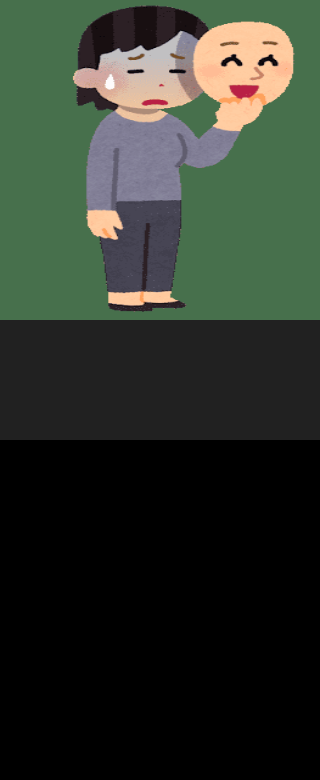
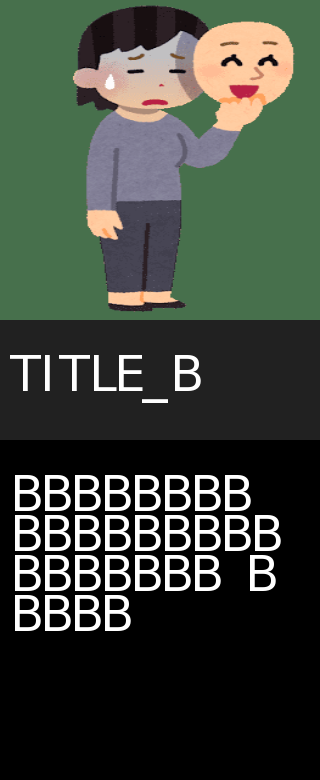
fix: 文字output

Changed region(s): [[0.0312, 0.5846, 0.875, 0.8308], [0.1875, 0.4308, 0.625, 0.5231], [0.0312, 0.4308, 0.1562, 0.5231]]

diff --git a/src/utils/operate_img.py b/src/utils/operate_img.py
@@ -1,9 +1,12 @@
+import copy
 import os.path
 import random
 import cv2
 import numpy as np
-from typing import Tuple, Union
+from typing import Tuple, Union, NamedTuple, List
 from pathlib import Path
+from dataclasses import dataclass
+from PIL import Image, ImageDraw, ImageFont
 
 
 def get_blank_image(height: int, width: int, rgb: Tuple[int, int, int] = None):
@@ -50,3 +53,54 @@ def read_image(image_path: Union[Path, str]):
 
 def resize_image(image, height: int, width: int):
     return cv2.resize(image, dsize=(height, width))
+
+
+def put_text_on_image(image, text):
+    text_on_image = TextOnImage(image, text)
+    text_on_image.put_text_on_image()
+    return text_on_image.image
+
+
+def cv2_to_pillow(image: np.ndarray):
+    # rgb image
+    if image.shape[2] == 3:
+        res = cv2.cvtColor(image.astype(np.float32), cv2.COLOR_BGR2RGB)
+    return Image.fromarray(res.astype(np.uint8))
+
+
+def pillow_to_cv2(pil_image):
+    res = np.array(pil_image, dtype=np.uint8)
+    res = cv2.cvtColor(res, cv2.COLOR_RGB2BGR)
+    return res
+
+
+class Font(NamedTuple):
+    font: str = 'kalimati.ttf'
+    size: int = 50
+
+
+@dataclass
+class TextOnImage:
+    image: np.ndarray
+    text: str
+    font_object: str = Font()
+    _rows: List[str] = None
+
+    def __post_init__(self):
+        rows = []
+        n = 9
+        for i in range(0, len(self.text), n):
+            row = self.text[i: i+n]
+            rows.append(row)
+        self._rows = rows
+
+    def put_text_on_image(self):
+        """
+        :return:
+        """
+        font = ImageFont.truetype(font=self.font_object.font, size=self.font_object.size)
+        pil_image = cv2_to_pillow(self.image)
+        image_draw = ImageDraw.Draw(pil_image)
+        for i, row in enumerate(self._rows):
+            image_draw.text((10, 10 + 40 * i), row, fill=(255, 255, 255), font=font)
+        self.image = pillow_to_cv2(pil_image)

diff --git a/src/make_description_images.py b/src/make_description_images.py
@@ -10,7 +10,8 @@ from src.utils.operate_img import (
     write_image,
     get_h_concatenate_image,
     read_image,
-    resize_image
+    resize_image,
+    put_text_on_image,
 )
 from src.utils import LAYER_JSON_PATH, DESCRIPTION_TSV_PATH
 from pathlib import Path
@@ -60,8 +61,8 @@ class StringLayer:
     _img = None
 
     def __post_init__(self):
-        # mock
         self._img = get_blank_image(self.height, self.width, rgb=self.background_color)
+        self._img = put_text_on_image(self._img, self.string)
 
 
 @dataclass

diff --git a/README.md b/README.md
@@ -11,6 +11,15 @@ vim projects/projectX/setting.json
 
 # Edit Descriptions
 vim projects/projectX
+
+# test json and tsv
+pytest
+
+# make each image and a concatenated image
+python make-images --project projectX
+
+# make video as .mp4
+python make-video --project projectX --type mp4 
 ```
 
 ### example
